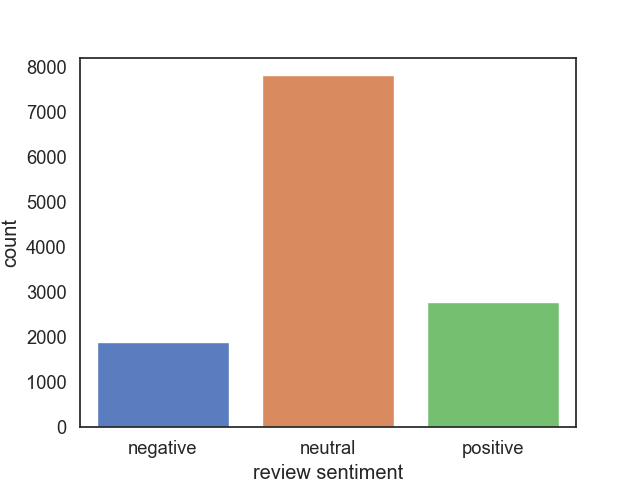
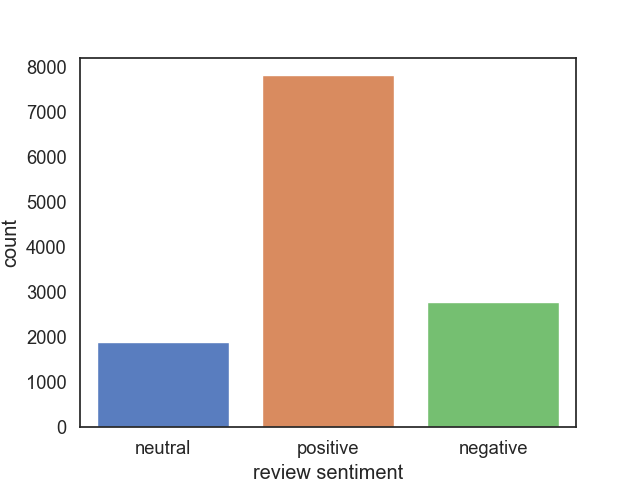
submission

Changed region(s): [[0.1875, 0.9062, 0.3125, 0.9688], [0.7188, 0.9062, 0.8125, 0.9688], [0.4688, 0.9062, 0.5625, 0.9688]]

diff --git a/plots/distribution.py b/plots/distribution.py
@@ -1,14 +1,26 @@
+import numpy as np
 import seaborn as sns
 from matplotlib import pyplot as plt
 
 from plots.services import save_plot
 
 sns.set(style='white', palette='muted', color_codes=True, font_scale=1.2)
+CLASS_NAME = ['neutral', 'positive', 'negative']
 
 
 def plot_distribution(dataframe):
-    class_names = ['negative', 'neutral', 'positive']
-    ax = sns.countplot(dataframe)
+    ax = sns.countplot(dataframe['polarity_value'])
     plt.xlabel('review sentiment')
-    ax.set_xticklabels(class_names)
+    ax.set_xticklabels(CLASS_NAME)
     save_plot('distribution')
+
+
+def plot_confusion_matrix(cf_matrix):
+    group_counts = ["{0: 0.0f}".format(value) for value in cf_matrix.flatten()]
+    group_percentages = ["{0: .2%}".format(value) for value in cf_matrix.flatten() / np.sum(cf_matrix)]
+    labels = [f"{v1}\n{v2}" for v1, v2 in zip(group_counts, group_percentages)]
+    labels = np.asarray(labels).reshape(3, 3)
+    sns.heatmap(cf_matrix, annot=labels, fmt='', cmap='Blues')
+    plt.xlabel("Predicted labels")
+    plt.ylabel("True labels")
+    save_plot('confusion_matrix')

diff --git a/ml/svm.py b/ml/svm.py
@@ -5,6 +5,9 @@ from sklearn.model_selection import train_test_split
 from sklearn.pipeline import Pipeline
 from sklearn.svm import LinearSVC
 
+from common.services import print_service
+from plots.distribution import plot_confusion_matrix
+
 
 def train_and_test_svm(df_training):
     text_clf = Pipeline([
@@ -18,7 +21,9 @@ def train_and_test_svm(df_training):
 
     y_pred = text_clf.predict(X_test)
 
-    print(classification_report(y_test, y_pred))
-    print(metrics.confusion_matrix(y_test, y_pred))
+    print_service("Classificatino report", classification_report(y_test, y_pred))
+
+    cf_matrix = metrics.confusion_matrix(y_test, y_pred)
+    plot_confusion_matrix(cf_matrix)
 
     return text_clf

diff --git a/main.py b/main.py
@@ -21,7 +21,8 @@ def main():
     explore_dataframe(dataframe)
 
     plot_word_cloud(dataframe['processed_sentence'])
-    plot_distribution(x=dataframe['polarity_value'])
+    plot_distribution(dataframe)
+
     clf = train_and_test_svm(dataframe)
 
 

diff --git a/dataframe_exploration/exploration.py b/dataframe_exploration/exploration.py
@@ -5,3 +5,5 @@ def explore_dataframe(dataframe):
     print_service("Head", dataframe.head(10))
     print_service("Shape", dataframe.shape)
     print_service("Null Values", dataframe.isnull().sum())
+
+
